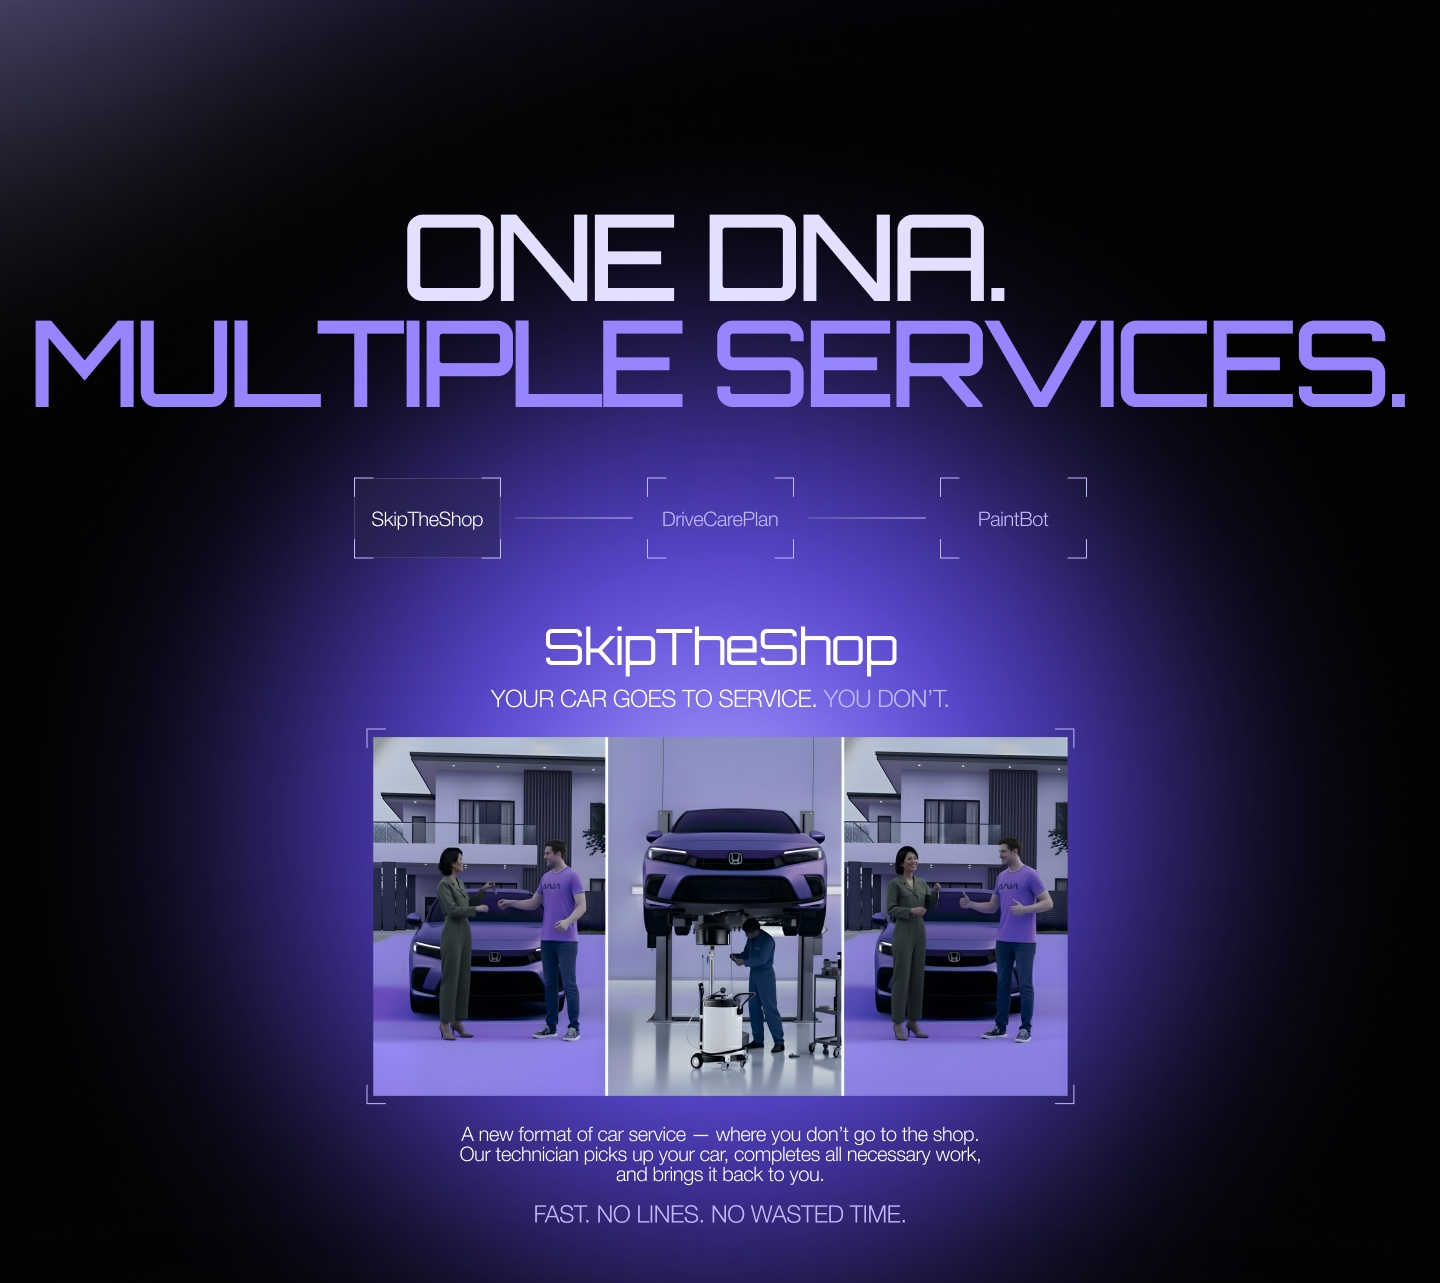
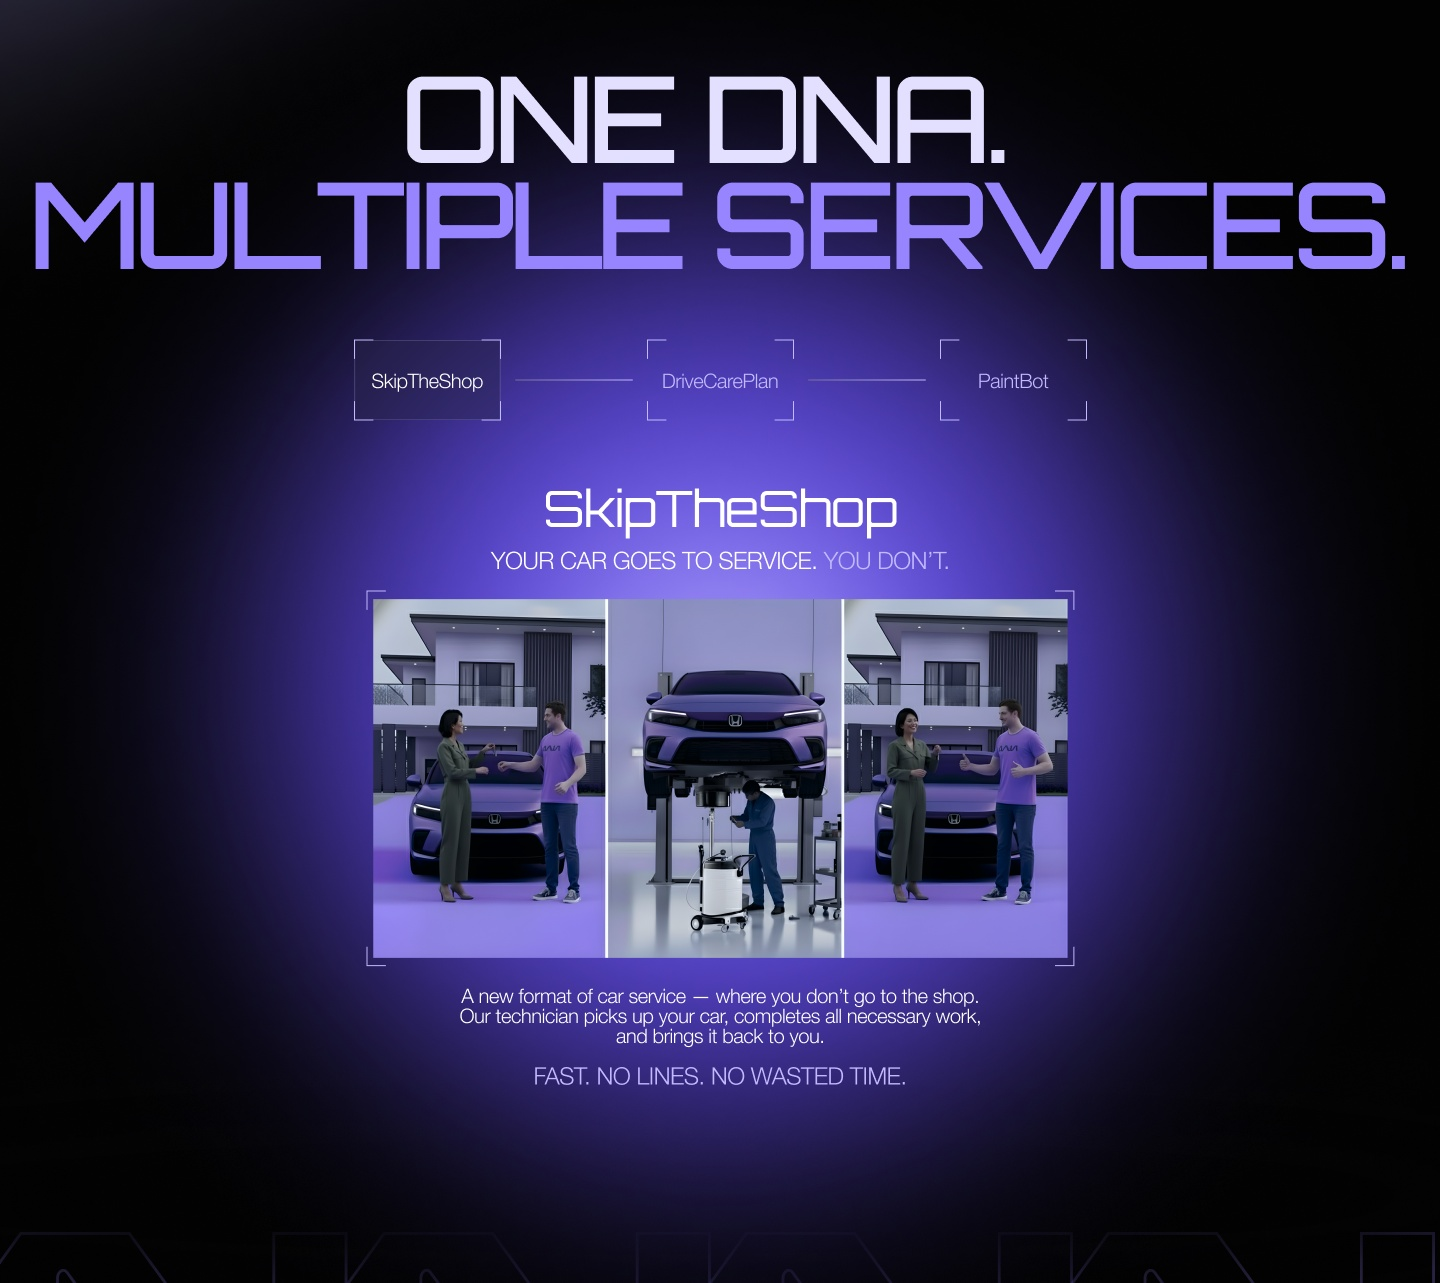
AutoDNA Service: fix tab 3 PaintBot click hitarea (aligned to Y=340px / top: 26.5% matching exact Component 8 coordinates)

diff --git a/assets/css/page-service.css b/assets/css/page-service.css
@@ -62,26 +62,26 @@
 
 .service-tab-btn--shop {
   left: 24.583%;
-  top: 37.256%;
+  top: 26.500%;
   width: 10.139%;
-  height: 6.157%;
+  height: 6.235%;
 }
 
 .service-tab-btn--plan {
   left: 44.931%;
-  top: 37.256%;
+  top: 26.500%;
   width: 10.139%;
-  height: 6.157%;
+  height: 6.235%;
 }
 
 .service-tab-btn--paint {
   left: 65.278%;
-  top: 37.256%;
+  top: 26.500%;
   width: 10.139%;
-  height: 6.157%;
+  height: 6.235%;
 }
 
-.service-tab-btn:hover {
+.service-tab-btn:hover.service-tab-btn:hover {
   background: rgba(150, 133, 255, 0.15);
   box-shadow: 0 0 20px rgba(150, 133, 255, 0.5);
 }
